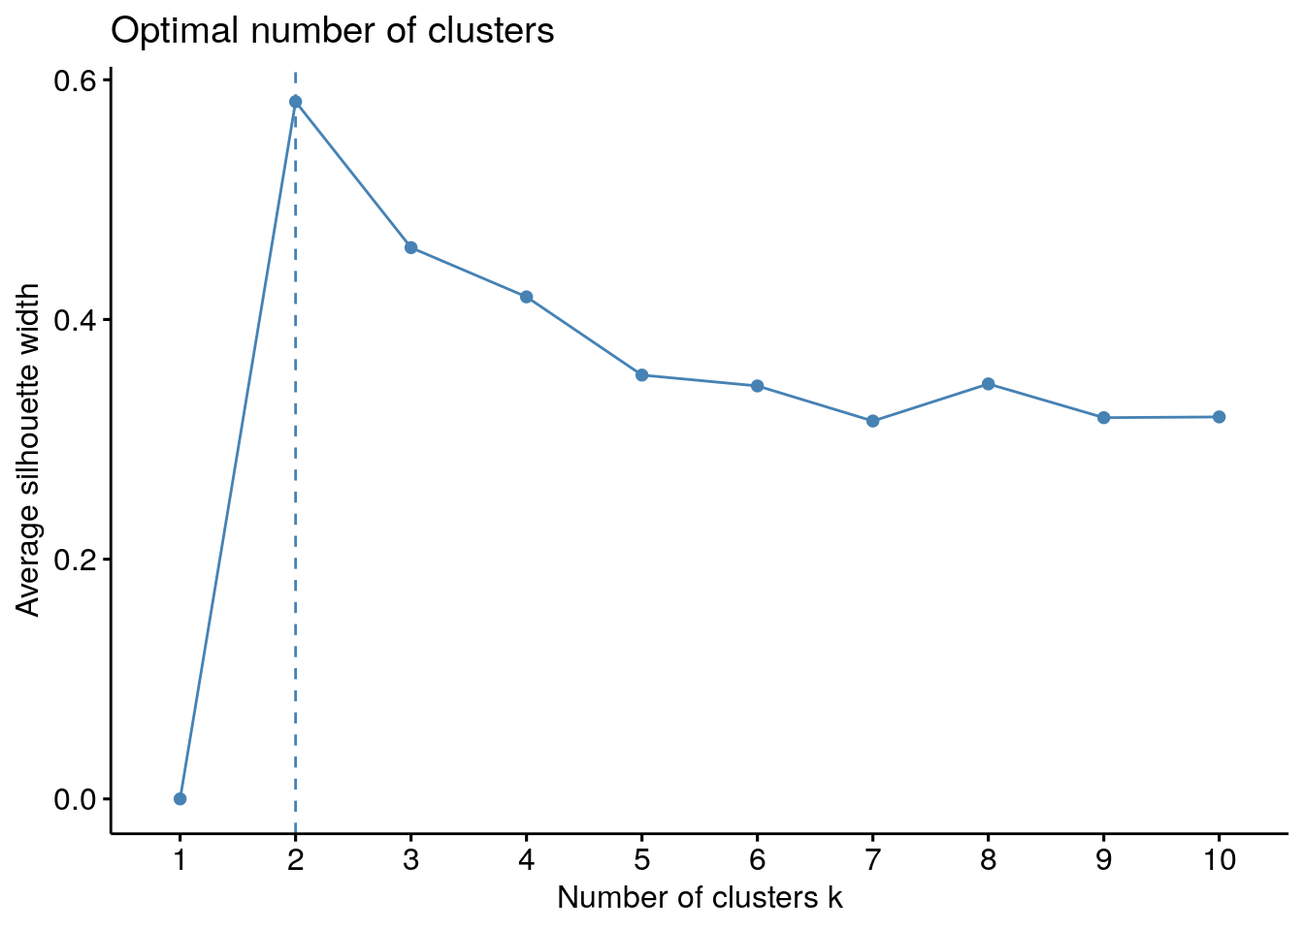
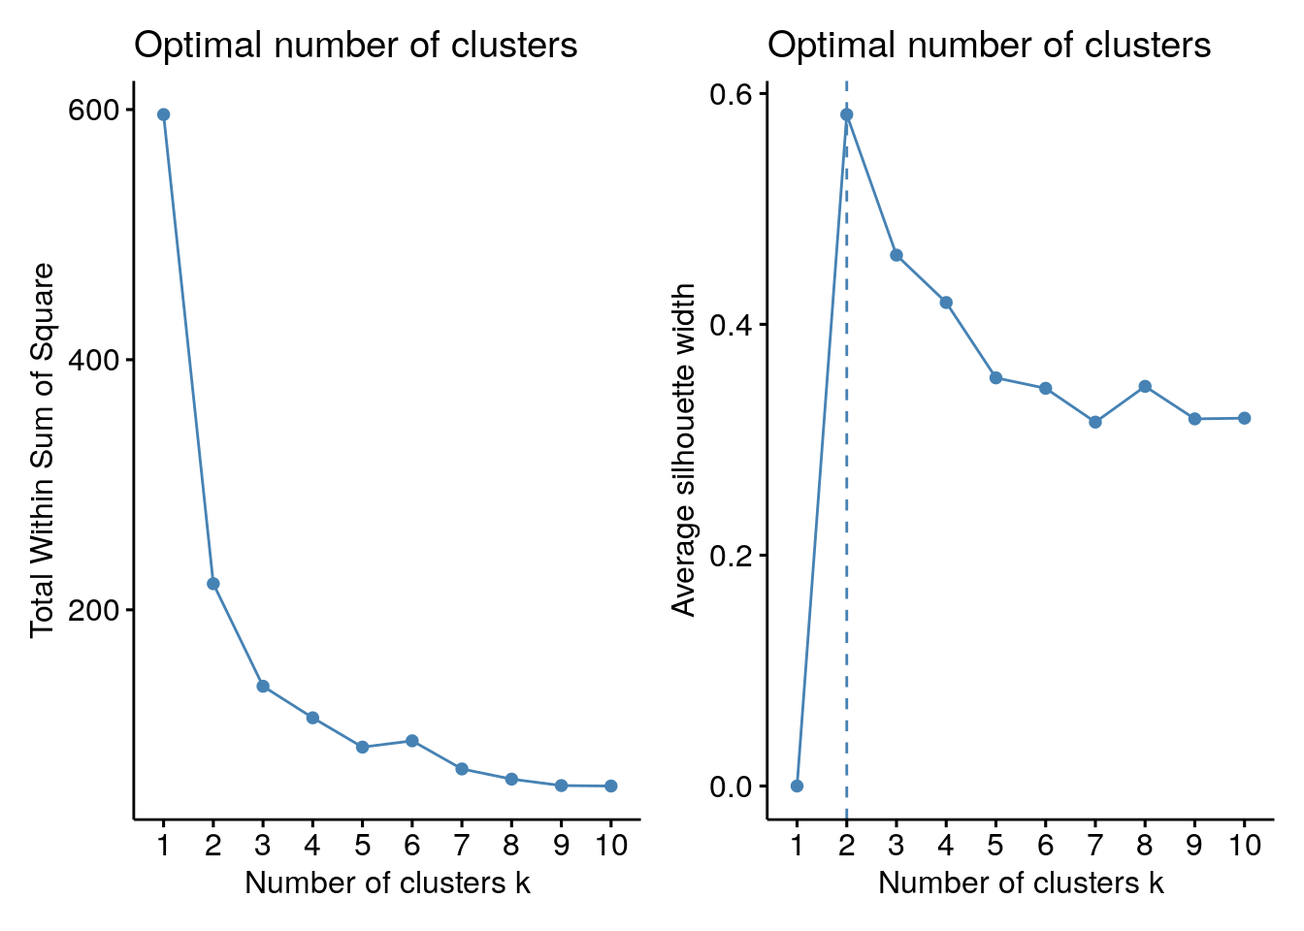
Update website

diff --git a/ds-book-r/p04-03-kmeans.html b/ds-book-r/p04-03-kmeans.html
@@ -2,7 +2,7 @@
 <html xmlns="http://www.w3.org/1999/xhtml" lang="en" xml:lang="en"><head>
 
 <meta charset="utf-8">
-<meta name="generator" content="quarto-1.3.450">
+<meta name="generator" content="quarto-1.3.353">
 
 <meta name="viewport" content="width=device-width, initial-scale=1.0, user-scalable=yes">
 
@@ -94,8 +94,7 @@ pre > code.sourceCode > span > a:first-child::before { text-decoration: underlin
     "search-more-matches-text": "more matches in this document",
     "search-clear-button-title": "Clear",
     "search-detached-cancel-button-title": "Cancel",
-    "search-submit-button-title": "Submit",
-    "search-label": "Search"
+    "search-submit-button-title": "Submit"
   }
 }</script>
 
@@ -117,7 +116,7 @@ pre > code.sourceCode > span > a:first-child::before { text-decoration: underlin
       <nav class="quarto-page-breadcrumbs" aria-label="breadcrumb"><ol class="breadcrumb"><li class="breadcrumb-item"><a href="./p04-01-unsupervised-learning.html">Unsupervised Learning</a></li><li class="breadcrumb-item"><a href="./p04-03-kmeans.html"><span class="chapter-number">38</span>&nbsp; <span class="chapter-title">k-means</span></a></li></ol></nav>
       <a class="flex-grow-1" role="button" data-bs-toggle="collapse" data-bs-target="#quarto-sidebar,#quarto-sidebar-glass" aria-controls="quarto-sidebar" aria-expanded="false" aria-label="Toggle sidebar navigation" onclick="if (window.quartoToggleHeadroom) { window.quartoToggleHeadroom(); }">      
       </a>
-      <button type="button" class="btn quarto-search-button" aria-label="" onclick="window.quartoOpenSearch();">
+      <button type="button" class="btn quarto-search-button" aria-label="Search" onclick="window.quartoOpenSearch();">
         <i class="bi bi-search"></i>
       </button>
     </div>
@@ -741,9 +740,17 @@ pre > code.sourceCode > span > a:first-child::before { text-decoration: underlin
 <p><strong>Xác định k tối ưu</strong></p>
 <p>Thuật toán <code>k-means</code> đòi hỏi ta phải xác định <code>k</code> trước khi xây dựng mô hình. Do đó, ngay khi bắt đầu, ta không thể biết chính xác số tối ưu của <code>centroid</code> mà phải qua vài bước thử để có thể xác định chính xác. Thông thường có hai cách xác định k tối ưu:</p>
 <ul>
-<li><code>Elbow method</code>: Với phương pháp này, ta xác định WSS (Within Cluster Sum of Square) với k khác nhau. Số lượng k tối ưu là điểm uốn trên đồ thị.</li>
-<li><code>Silhouette method</code>: Tính toán chỉ số Sihouette với số k khác nhau, k tối ưu là điểm có chỉ số <code>Silhouette</code> cao nhất. Chỉ số này có giá trị trong khoảng (-1, 1) với giá trị càng cao càng tốt.</li>
+<li><code>Elbow method</code> (Phương pháp khuỷu tay): Với phương pháp này, ta xác định <code>WSS</code> (Within Cluster Sum of Square) với k khác nhau. Chỉ số này cho ta biết được khoảng cách của từng quan sát đến tâm của các nhóm. Khi số lượng nhóm tăng lên, giá trị này sẽ ngày càng giảm đi. Số lượng k tối ưu là điểm uốn trên đồ thị.</li>
+<li><code>Silhouette method</code>: Tính toán chỉ số Sihouette với số k khác nhau. Chỉ số này có giá trị trong khoảng (-1, 1) với giá trị càng cao càng tốt. Chỉ số này cho ta biết được khoảng cách trung bình giữa các nhóm. k tối ưu là điểm có chỉ số <code>Silhouette</code> cao nhất.</li>
 </ul>
+<p><span class="math display">\[\text{silhouette} = \frac{1}{n} \sum_{i=1}^{n} \frac{b_i - a_i}{\max(a_i, b_i)}\]</span></p>
+<p>Trong đó:</p>
+<ul>
+<li><span class="math inline">\(n\)</span>: Số lượng quan sát</li>
+<li><span class="math inline">\(a\)</span>: Khoảng cách từ 1 quan sát tất cả các điểm quan sát khác trong cùng nhóm</li>
+<li><span class="math inline">\(b\)</span>: Khoảng cách từ 1 quan sát tất cả các điểm quan sát khác không cùng nhóm</li>
+</ul>
+<hr>
 <div class="cell">
 <div class="cell-output-display">
 <p><img src="p04-03-kmeans_files/figure-html/unnamed-chunk-2-1.png" class="img-fluid" width="672"></p>
@@ -758,8 +765,9 @@ pre > code.sourceCode > span > a:first-child::before { text-decoration: underlin
 <li><strong>Thứ nhất</strong>, do lấy ngẫu nhiên tâm/centroid nên khi dữ liệu lớn với rất nhiều các biến đầu vào thuật toán có thể phân loại các quan sát vào các nhóm khác nhau tại mỗi lần phân cụm. Hay nói cách khác, thuật toán thiếu tính ổn định với dữ liệu lớn</li>
 <li><strong>Thứ hai</strong>, thuật toán sẽ gặp vấn đề khó khăn khi các biến đầu vào có các đơn vị khác nhau, ví dụ như: biến chi tiêu hoặc thu nhập của khách hàng đơn vị là triệu đồng, biến đánh dấu khách hàng có sử dụng thẻ tín dụng (dummy 1-0), hoặc biến tỷ lệ chi tiêu thẻ tín dụng trên hạn mức được cấp, v.v.</li>
 </ul>
-<p>Vì vậy, để khắc phục vấn đề trên trước khi áp dụng thuật toán <code>K-means</code>, chúng ta cần phải chuẩn hóa dữ liệu đầu vào bằng cách <code>scaling</code> dữ liệu:</p>
+<p>Vì vậy, để khắc phục vấn đề trên trước khi áp dụng thuật toán <code>K-means</code>, chúng ta cần phải chuẩn hóa dữ liệu đầu vào bằng cách chuẩn hóa. Ta có thể có các cách chuẩn hóa dạng <code>min - max</code> hoặc <code>standardization</code></p>
 <p><span class="math display">\[x_i = \frac{x_i - min(x_i)}{max(x_i) - min(x_i)}\]</span></p>
+<p><span class="math display">\[x_i = \frac{x-\mu}{\sigma}\]</span></p>
 <ul>
 <li><strong>Thứ ba</strong>, <code>k-means</code> không thể thực hiện tốt việc phân nhóm nếu tồn tại các nhóm đặc biệt - như tồn tại các nhóm nằm lồng nhau.</li>
 </ul>
@@ -785,25 +793,58 @@ pre > code.sourceCode > span > a:first-child::before { text-decoration: underlin
 <div class="cell">
 <div class="sourceCode cell-code" id="cb2"><pre class="sourceCode r code-with-copy"><code class="sourceCode r"><span id="cb2-1"><a href="#cb2-1" aria-hidden="true" tabindex="-1"></a><span class="co"># Xác định số lượng nhóm tối ưu</span></span>
 <span id="cb2-2"><a href="#cb2-2" aria-hidden="true" tabindex="-1"></a><span class="fu">library</span>(factoextra)</span>
-<span id="cb2-3"><a href="#cb2-3" aria-hidden="true" tabindex="-1"></a><span class="fu">fviz_nbclust</span>(iris_scale, </span>
+<span id="cb2-3"><a href="#cb2-3" aria-hidden="true" tabindex="-1"></a>p1 <span class="ot">&lt;-</span> <span class="fu">fviz_nbclust</span>(iris_scale, </span>
 <span id="cb2-4"><a href="#cb2-4" aria-hidden="true" tabindex="-1"></a>             kmeans, </span>
-<span id="cb2-5"><a href="#cb2-5" aria-hidden="true" tabindex="-1"></a>             <span class="at">method =</span> <span class="st">"silhouette"</span>)</span></code><button title="Copy to Clipboard" class="code-copy-button"><i class="bi"></i></button></pre></div>
+<span id="cb2-5"><a href="#cb2-5" aria-hidden="true" tabindex="-1"></a>             <span class="at">method =</span> <span class="st">"wss"</span>)</span>
+<span id="cb2-6"><a href="#cb2-6" aria-hidden="true" tabindex="-1"></a>p2 <span class="ot">&lt;-</span> <span class="fu">fviz_nbclust</span>(iris_scale, </span>
+<span id="cb2-7"><a href="#cb2-7" aria-hidden="true" tabindex="-1"></a>             kmeans, </span>
+<span id="cb2-8"><a href="#cb2-8" aria-hidden="true" tabindex="-1"></a>             <span class="at">method =</span> <span class="st">"silhouette"</span>)</span>
+<span id="cb2-9"><a href="#cb2-9" aria-hidden="true" tabindex="-1"></a>p1 <span class="sc">+</span> p2</span></code><button title="Copy to Clipboard" class="code-copy-button"><i class="bi"></i></button></pre></div>
 <div class="cell-output-display">
 <p><img src="p04-03-kmeans_files/figure-html/unnamed-chunk-4-1.png" class="img-fluid" width="672"></p>
 </div>
 </div>
-<p>Kết quả cho thấy trường hợp này chúng ta nên chia làm 2 nhóm sẽ tối ưu. Trong thực tế, việc chia thành bao nhiêu nhóm sẽ phụ thuộc vào mục tiêu kinh doanh, thông thường số lượng nhóm nên từ 2 đến 10.</p>
+<p>Kết quả cho thấy trường hợp này chúng ta nên chia làm 2 nhóm sẽ tối ưu. Trong thực tế, việc chia thành bao nhiêu nhóm sẽ phụ thuộc vào mục tiêu, thông thường số lượng nhóm nên từ 2 đến 10.</p>
+<hr>
+<p>Trong thực tế, khi khối lượng dữ liệu đủ lớn, việc sử dụng trực tiếp <code>fviz_nbclust</code> như trên sẽ gặp vấn đề về hiệu năng do R sẽ lưu trực tiếp toàn bộ kết quả trong một object, gây ra hiện tượng tràn bộ nhớ. Để khắc phục vấn đề trên, ta có thể tính toán <code>wss</code> và <code>silhouette</code> với từng giá trị của k.</p>
+<div class="cell">
+<div class="sourceCode cell-code" id="cb3"><pre class="sourceCode r code-with-copy"><code class="sourceCode r"><span id="cb3-1"><a href="#cb3-1" aria-hidden="true" tabindex="-1"></a>pacman<span class="sc">::</span><span class="fu">p_load</span>(cluster)</span>
+<span id="cb3-2"><a href="#cb3-2" aria-hidden="true" tabindex="-1"></a>get_k_mean <span class="ot">&lt;-</span> <span class="cf">function</span>(i){</span>
+<span id="cb3-3"><a href="#cb3-3" aria-hidden="true" tabindex="-1"></a>  kmean_model <span class="ot">&lt;-</span> <span class="fu">kmeans</span>(iris_scale, </span>
+<span id="cb3-4"><a href="#cb3-4" aria-hidden="true" tabindex="-1"></a>                      <span class="at">centers =</span> i <span class="co"># số lượng nhóm</span></span>
+<span id="cb3-5"><a href="#cb3-5" aria-hidden="true" tabindex="-1"></a>                      )</span>
+<span id="cb3-6"><a href="#cb3-6" aria-hidden="true" tabindex="-1"></a>  silhouette_stat <span class="ot">&lt;-</span> <span class="fu">silhouette</span>(kmean_model<span class="sc">$</span>cluster,  <span class="fu">dist</span>(iris_scale))</span>
+<span id="cb3-7"><a href="#cb3-7" aria-hidden="true" tabindex="-1"></a>  df <span class="ot">&lt;-</span> <span class="fu">data.frame</span>(<span class="at">n_center =</span> i,</span>
+<span id="cb3-8"><a href="#cb3-8" aria-hidden="true" tabindex="-1"></a>                   <span class="at">wss =</span> kmean_model<span class="sc">$</span>tot.withinss,</span>
+<span id="cb3-9"><a href="#cb3-9" aria-hidden="true" tabindex="-1"></a>                   <span class="at">silhouette_stat =</span> silhouette_stat[, <span class="st">"sil_width"</span>] <span class="sc">%&gt;%</span> mean)</span>
+<span id="cb3-10"><a href="#cb3-10" aria-hidden="true" tabindex="-1"></a>  <span class="fu">return</span>(df)</span>
+<span id="cb3-11"><a href="#cb3-11" aria-hidden="true" tabindex="-1"></a>}</span>
+<span id="cb3-12"><a href="#cb3-12" aria-hidden="true" tabindex="-1"></a></span>
+<span id="cb3-13"><a href="#cb3-13" aria-hidden="true" tabindex="-1"></a>result_df <span class="ot">&lt;-</span> <span class="fu">map_df</span>(<span class="dv">2</span><span class="sc">:</span><span class="dv">10</span>, get_k_mean)</span>
+<span id="cb3-14"><a href="#cb3-14" aria-hidden="true" tabindex="-1"></a></span>
+<span id="cb3-15"><a href="#cb3-15" aria-hidden="true" tabindex="-1"></a>result_df <span class="sc">%&gt;%</span> </span>
+<span id="cb3-16"><a href="#cb3-16" aria-hidden="true" tabindex="-1"></a>  <span class="fu">pivot_longer</span>(<span class="dv">2</span><span class="sc">:</span><span class="dv">3</span>) <span class="sc">%&gt;%</span> </span>
+<span id="cb3-17"><a href="#cb3-17" aria-hidden="true" tabindex="-1"></a>  <span class="fu">ggplot</span>(<span class="fu">aes</span>(n_center, value)) <span class="sc">+</span></span>
+<span id="cb3-18"><a href="#cb3-18" aria-hidden="true" tabindex="-1"></a>  <span class="fu">geom_point</span>(<span class="at">size =</span> <span class="dv">3</span>) <span class="sc">+</span></span>
+<span id="cb3-19"><a href="#cb3-19" aria-hidden="true" tabindex="-1"></a>  <span class="fu">geom_line</span>() <span class="sc">+</span></span>
+<span id="cb3-20"><a href="#cb3-20" aria-hidden="true" tabindex="-1"></a>  <span class="fu">facet_wrap</span>(<span class="sc">~</span>name, <span class="at">scale =</span> <span class="st">"free"</span>)</span></code><button title="Copy to Clipboard" class="code-copy-button"><i class="bi"></i></button></pre></div>
+<div class="cell-output-display">
+<p><img src="p04-03-kmeans_files/figure-html/unnamed-chunk-5-1.png" class="img-fluid" width="672"></p>
+</div>
+</div>
+<p>Do <code>silhoutte</code> có giá trị bằng 0 với số lượng nhóm là 1, ta có thể thấy số lượng <code>centroid</code> tối ưu sẽ là 2.</p>
+<hr>
 <ul>
 <li><strong>Bước 3</strong>: Thực hiện <code>clustering K-means</code> thành 2 nhóm</li>
 </ul>
 <div class="cell">
-<div class="sourceCode cell-code" id="cb3"><pre class="sourceCode r code-with-copy"><code class="sourceCode r"><span id="cb3-1"><a href="#cb3-1" aria-hidden="true" tabindex="-1"></a><span class="co"># Thực hiện thuật toán K-means</span></span>
-<span id="cb3-2"><a href="#cb3-2" aria-hidden="true" tabindex="-1"></a>k_means_fit <span class="ot">&lt;-</span> <span class="fu">kmeans</span>(iris_scale, </span>
-<span id="cb3-3"><a href="#cb3-3" aria-hidden="true" tabindex="-1"></a>                      <span class="at">centers =</span> <span class="dv">2</span> <span class="co"># số lượng nhóm</span></span>
-<span id="cb3-4"><a href="#cb3-4" aria-hidden="true" tabindex="-1"></a>                      )</span>
-<span id="cb3-5"><a href="#cb3-5" aria-hidden="true" tabindex="-1"></a></span>
-<span id="cb3-6"><a href="#cb3-6" aria-hidden="true" tabindex="-1"></a><span class="co"># Nhóm của các quan sát</span></span>
-<span id="cb3-7"><a href="#cb3-7" aria-hidden="true" tabindex="-1"></a>k_means_fit<span class="sc">$</span>cluster</span></code><button title="Copy to Clipboard" class="code-copy-button"><i class="bi"></i></button></pre></div>
+<div class="sourceCode cell-code" id="cb4"><pre class="sourceCode r code-with-copy"><code class="sourceCode r"><span id="cb4-1"><a href="#cb4-1" aria-hidden="true" tabindex="-1"></a><span class="co"># Thực hiện thuật toán K-means</span></span>
+<span id="cb4-2"><a href="#cb4-2" aria-hidden="true" tabindex="-1"></a>k_means_fit <span class="ot">&lt;-</span> <span class="fu">kmeans</span>(iris_scale, </span>
+<span id="cb4-3"><a href="#cb4-3" aria-hidden="true" tabindex="-1"></a>                      <span class="at">centers =</span> <span class="dv">2</span> <span class="co"># số lượng nhóm</span></span>
+<span id="cb4-4"><a href="#cb4-4" aria-hidden="true" tabindex="-1"></a>                      )</span>
+<span id="cb4-5"><a href="#cb4-5" aria-hidden="true" tabindex="-1"></a></span>
+<span id="cb4-6"><a href="#cb4-6" aria-hidden="true" tabindex="-1"></a><span class="co"># Nhóm của các quan sát</span></span>
+<span id="cb4-7"><a href="#cb4-7" aria-hidden="true" tabindex="-1"></a>k_means_fit<span class="sc">$</span>cluster</span></code><button title="Copy to Clipboard" class="code-copy-button"><i class="bi"></i></button></pre></div>
 <div class="cell-output cell-output-stdout">
 <pre><code>  [1] 1 1 1 1 1 1 1 1 1 1 1 1 1 1 1 1 1 1 1 1 1 1 1 1 1 1 1 1 1 1 1 1 1 1 1 1 1
  [38] 1 1 1 1 1 1 1 1 1 1 1 1 1 2 2 2 2 2 2 2 2 2 2 2 2 2 2 2 2 2 2 2 2 2 2 2 2
@@ -811,15 +852,15 @@ pre > code.sourceCode > span > a:first-child::before { text-decoration: underlin
 [112] 2 2 2 2 2 2 2 2 2 2 2 2 2 2 2 2 2 2 2 2 2 2 2 2 2 2 2 2 2 2 2 2 2 2 2 2 2
 [149] 2 2</code></pre>
 </div>
-<div class="sourceCode cell-code" id="cb5"><pre class="sourceCode r code-with-copy"><code class="sourceCode r"><span id="cb5-1"><a href="#cb5-1" aria-hidden="true" tabindex="-1"></a><span class="co"># Tâm của mỗi nhóm</span></span>
-<span id="cb5-2"><a href="#cb5-2" aria-hidden="true" tabindex="-1"></a>k_means_fit<span class="sc">$</span>centers</span></code><button title="Copy to Clipboard" class="code-copy-button"><i class="bi"></i></button></pre></div>
+<div class="sourceCode cell-code" id="cb6"><pre class="sourceCode r code-with-copy"><code class="sourceCode r"><span id="cb6-1"><a href="#cb6-1" aria-hidden="true" tabindex="-1"></a><span class="co"># Tâm của mỗi nhóm</span></span>
+<span id="cb6-2"><a href="#cb6-2" aria-hidden="true" tabindex="-1"></a>k_means_fit<span class="sc">$</span>centers</span></code><button title="Copy to Clipboard" class="code-copy-button"><i class="bi"></i></button></pre></div>
 <div class="cell-output cell-output-stdout">
 <pre><code>  Sepal.Length Sepal.Width Petal.Length Petal.Width
 1   -1.0111914   0.8504137    -1.300630  -1.2507035
 2    0.5055957  -0.4252069     0.650315   0.6253518</code></pre>
 </div>
-<div class="sourceCode cell-code" id="cb7"><pre class="sourceCode r code-with-copy"><code class="sourceCode r"><span id="cb7-1"><a href="#cb7-1" aria-hidden="true" tabindex="-1"></a><span class="co"># Số lượng quan sát tại mỗi nhóm</span></span>
-<span id="cb7-2"><a href="#cb7-2" aria-hidden="true" tabindex="-1"></a>k_means_fit<span class="sc">$</span>size</span></code><button title="Copy to Clipboard" class="code-copy-button"><i class="bi"></i></button></pre></div>
+<div class="sourceCode cell-code" id="cb8"><pre class="sourceCode r code-with-copy"><code class="sourceCode r"><span id="cb8-1"><a href="#cb8-1" aria-hidden="true" tabindex="-1"></a><span class="co"># Số lượng quan sát tại mỗi nhóm</span></span>
+<span id="cb8-2"><a href="#cb8-2" aria-hidden="true" tabindex="-1"></a>k_means_fit<span class="sc">$</span>size</span></code><button title="Copy to Clipboard" class="code-copy-button"><i class="bi"></i></button></pre></div>
 <div class="cell-output cell-output-stdout">
 <pre><code>[1]  50 100</code></pre>
 </div>
@@ -828,15 +869,15 @@ pre > code.sourceCode > span > a:first-child::before { text-decoration: underlin
 <li><strong>Bước 4</strong>: Trực quan hóa kết quả</li>
 </ul>
 <div class="cell">
-<div class="sourceCode cell-code" id="cb9"><pre class="sourceCode r code-with-copy"><code class="sourceCode r"><span id="cb9-1"><a href="#cb9-1" aria-hidden="true" tabindex="-1"></a><span class="co"># Trực quan hóa kết quả K-means</span></span>
-<span id="cb9-2"><a href="#cb9-2" aria-hidden="true" tabindex="-1"></a><span class="fu">fviz_cluster</span>(k_means_fit, </span>
-<span id="cb9-3"><a href="#cb9-3" aria-hidden="true" tabindex="-1"></a>             <span class="at">data =</span> iris_scale,</span>
-<span id="cb9-4"><a href="#cb9-4" aria-hidden="true" tabindex="-1"></a>             <span class="at">geom =</span> <span class="st">"point"</span>,</span>
-<span id="cb9-5"><a href="#cb9-5" aria-hidden="true" tabindex="-1"></a>             <span class="at">main =</span> <span class="st">"Iris Cluster"</span></span>
-<span id="cb9-6"><a href="#cb9-6" aria-hidden="true" tabindex="-1"></a>             )<span class="sc">+</span></span>
-<span id="cb9-7"><a href="#cb9-7" aria-hidden="true" tabindex="-1"></a>  <span class="fu">theme_minimal</span>()</span></code><button title="Copy to Clipboard" class="code-copy-button"><i class="bi"></i></button></pre></div>
+<div class="sourceCode cell-code" id="cb10"><pre class="sourceCode r code-with-copy"><code class="sourceCode r"><span id="cb10-1"><a href="#cb10-1" aria-hidden="true" tabindex="-1"></a><span class="co"># Trực quan hóa kết quả K-means</span></span>
+<span id="cb10-2"><a href="#cb10-2" aria-hidden="true" tabindex="-1"></a><span class="fu">fviz_cluster</span>(k_means_fit, </span>
+<span id="cb10-3"><a href="#cb10-3" aria-hidden="true" tabindex="-1"></a>             <span class="at">data =</span> iris_scale,</span>
+<span id="cb10-4"><a href="#cb10-4" aria-hidden="true" tabindex="-1"></a>             <span class="at">geom =</span> <span class="st">"point"</span>,</span>
+<span id="cb10-5"><a href="#cb10-5" aria-hidden="true" tabindex="-1"></a>             <span class="at">main =</span> <span class="st">"Iris Cluster"</span></span>
+<span id="cb10-6"><a href="#cb10-6" aria-hidden="true" tabindex="-1"></a>             )<span class="sc">+</span></span>
+<span id="cb10-7"><a href="#cb10-7" aria-hidden="true" tabindex="-1"></a>  <span class="fu">theme_minimal</span>()</span></code><button title="Copy to Clipboard" class="code-copy-button"><i class="bi"></i></button></pre></div>
 <div class="cell-output-display">
-<p><img src="p04-03-kmeans_files/figure-html/unnamed-chunk-6-1.png" class="img-fluid" width="672"></p>
+<p><img src="p04-03-kmeans_files/figure-html/unnamed-chunk-7-1.png" class="img-fluid" width="672"></p>
 </div>
 </div>
 </section>
@@ -854,16 +895,12 @@ Lưu ý
 <div class="callout-body-container callout-body">
 <p>Thuật toán <code>kmean</code> đơn giản nhưng không dễ thực hiện trong thực tế do phân cụm chỉ là bước đầu tiên của cả quá trình ứng dụng thuật toán. Các bước tổng thể khi triển khai thực tế bao gồm:</p>
 <ul>
-<li>Phân cụm dựa theo các biến đầu vào</li>
-<li>Tính toán các chỉ số điển hình theo các cụm và đặt tên profile</li>
+<li>Phân cụm dựa theo các biến đầu vào theo nhóm hành vi (chỉ dùng 1 số nhóm biến nhất định)</li>
+<li>Tính toán bổ sung các chỉ số điển hình (thêm các biến mới như nhân khẩu, phân khúc,…) theo các cụm và đặt tên profile</li>
 <li>Dự báo khách hàng mới (nếu có)</li>
 </ul>
 </div>
 </div>
-<p><strong>Dự báo với nhóm mới</strong></p>
-<p>Sau khi phân nhóm các quan sát với <code>k-means</code>, trong nhiều trường hợp, ta có thể dự báo quan sát mới thuộc nhóm nào. Để thực hiện điều này, cách đơn giản nhất là <em>tính toán khoảng cách giữa quan sát mới và với các <code>centroid</code> vừa tạo</em>. Quan sát mới gần với centroid nào nhất sẽ được gán vào nhóm đó</p>
-<p><strong>Trọng số khi dự báo quan sát mới</strong></p>
-<p>Trong nhiều trường hợp, việc dự báo 1 quan sát thuộc nhóm nào sẽ chịu ảnh hưởng bởi 1 vài biến quan trọng nào đấy theo nhu cầu kinh doanh. Ví dụ, phân nhóm khách hàng nhưng trọng số quan trọng là hành vi giao dịch. Trong trường hợp này, ta cũng có thể tính toán khoảng cách giữa quan sát mới với các <code>centroid</code> mới tạo nhưng đánh trọng số cao hơn với 1 số biến nhất định.</p>
 <center>
 <font size="4">§</font>
 </center>
@@ -871,8 +908,15 @@ Lưu ý
 <p>Khi phân nhóm xong, việc tiếp theo là xây dựng profile của các nhóm. Tuy nhiên, khi xây dựng mô hình không thể đưa hết các biến vào mà cần chia làm 2 bước.</p>
 <ul>
 <li><strong>Bước 1</strong>: Phân nhóm dựa trên 1 số các biến cơ bản. VD: Dựa trên giá trị, tần xuất giao dịch của khách hàng thuộc các nhóm chi tiêu khác nhau. Tại bước này, cần đặt tên các nhóm dựa trên phân bổ và hành vi điển hình của khách hàng.</li>
-<li><strong>Bước 2</strong>: Quay ngược lại các biến cần quan tâm sau khi đã xác định được chính xác khách hàng thuộc <code>cluster</code> nào. Ta cần tính toán các chỉ số thống kê điển hình như <code>median</code>, <code>mean</code>,… của các biến và đặt tên nhóm tại bước này.</li>
+<li><strong>Bước 2</strong>: Quay ngược lại các biến cần quan tâm sau khi đã xác định được chính xác khách hàng thuộc <code>cluster</code> nào. Tại bước này, ta có thể bổ sung các biến mới như nhân khẩu học (giới tính, vùng miền) để phục vụ việc thống kê. Ta cần tính toán các chỉ số thống kê điển hình như <code>median</code>, <code>mean</code>,… của các biến và đặt tên nhóm tại bước này.</li>
 </ul>
+<center>
+<font size="4">§</font>
+</center>
+<p><strong>Dự báo với nhóm mới</strong></p>
+<p>Sau khi phân nhóm các quan sát với <code>k-means</code>, trong nhiều trường hợp, ta có thể dự báo quan sát mới thuộc nhóm nào. Để thực hiện điều này, cách đơn giản nhất là <em>tính toán khoảng cách giữa quan sát mới và với các <code>centroid</code> vừa tạo</em>. Quan sát mới gần với centroid nào nhất sẽ được gán vào nhóm đó</p>
+<p><strong>Trọng số khi dự báo quan sát mới</strong></p>
+<p>Trong nhiều trường hợp, việc dự báo 1 quan sát thuộc nhóm nào sẽ chịu ảnh hưởng bởi 1 vài biến quan trọng nào đấy theo nhu cầu kinh doanh. Ví dụ, phân nhóm khách hàng nhưng trọng số quan trọng là hành vi giao dịch. Trong trường hợp này, ta cũng có thể tính toán khoảng cách giữa quan sát mới với các <code>centroid</code> mới tạo nhưng đánh trọng số cao hơn với 1 số biến nhất định.</p>
 </section>
 <section id="tài-liệu-tham-khảo" class="level2" data-number="38.6">
 <h2 data-number="38.6" class="anchored" data-anchor-id="tài-liệu-tham-khảo"><span class="header-section-number">38.6</span> Tài liệu tham khảo</h2>
